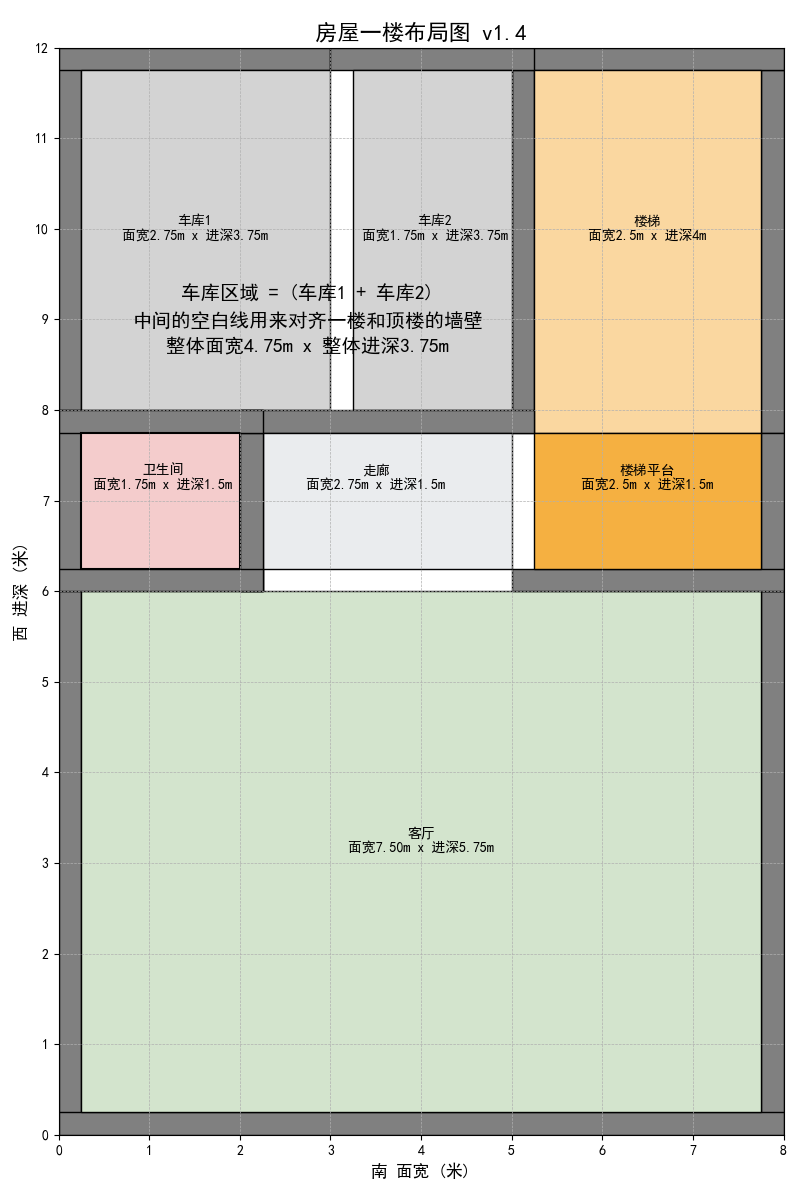
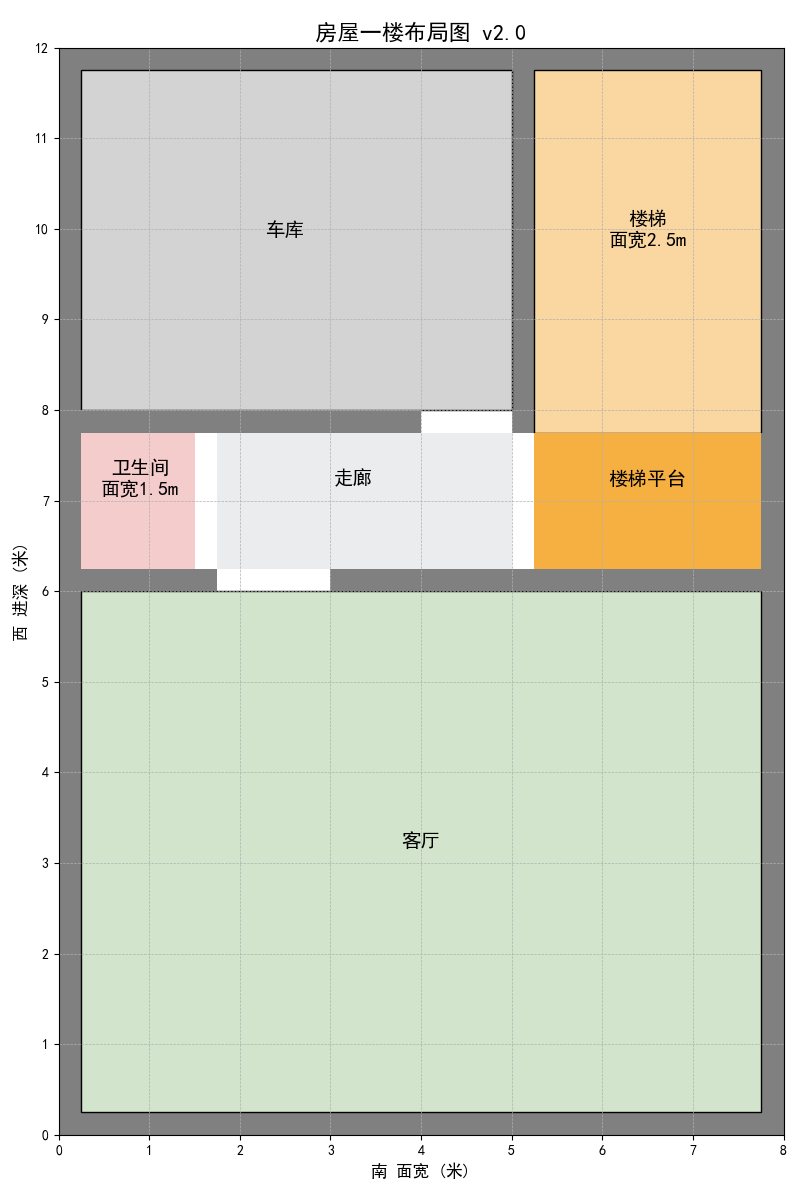
perf(floor_1nd.py): update to v2.0

diff --git a/globals.py b/globals.py
@@ -7,7 +7,7 @@
 @Description: 
 """
 
-VERSION = "v1.4"
+VERSION = "v2.0"
 
 FLOOR_1_TITLE = f"房屋一楼布局图 {VERSION}"
 FLOOR_1_5_TITLE = f"厨房布局图 {VERSION}"
@@ -55,12 +55,11 @@ def draw_wall(ax, x, y, width, height, exclude=None, adjacent=None):
         exclude = [exclude]
 
     if ('left' not in exclude) and ('left' not in adjacent):
-        ax.add_patch(patches.Rectangle((x, y), wall_thickness, height, facecolor='gray', edgecolor='black'))
+        ax.add_patch(patches.Rectangle((x, y), wall_thickness, height, facecolor='gray'))
     if ('right' not in exclude) and ('right' not in adjacent):
         ax.add_patch(patches.Rectangle((x + width - wall_thickness, y), wall_thickness, height - wall_thickness,
-                                       facecolor='gray', edgecolor='black'))
+                                       facecolor='gray'))
     if ('bottom' not in exclude) and ('bottom' not in adjacent):
-        ax.add_patch(patches.Rectangle((x, y), width, wall_thickness, facecolor='gray', edgecolor='black'))
+        ax.add_patch(patches.Rectangle((x, y), width, wall_thickness, facecolor='gray'))
     if ('top' not in exclude) and ('top' not in adjacent):
-        ax.add_patch(patches.Rectangle((x, y + height - wall_thickness), width, wall_thickness, facecolor='gray',
-                                       edgecolor='black'))
+        ax.add_patch(patches.Rectangle((x, y + height - wall_thickness), width, wall_thickness, facecolor='gray'))
